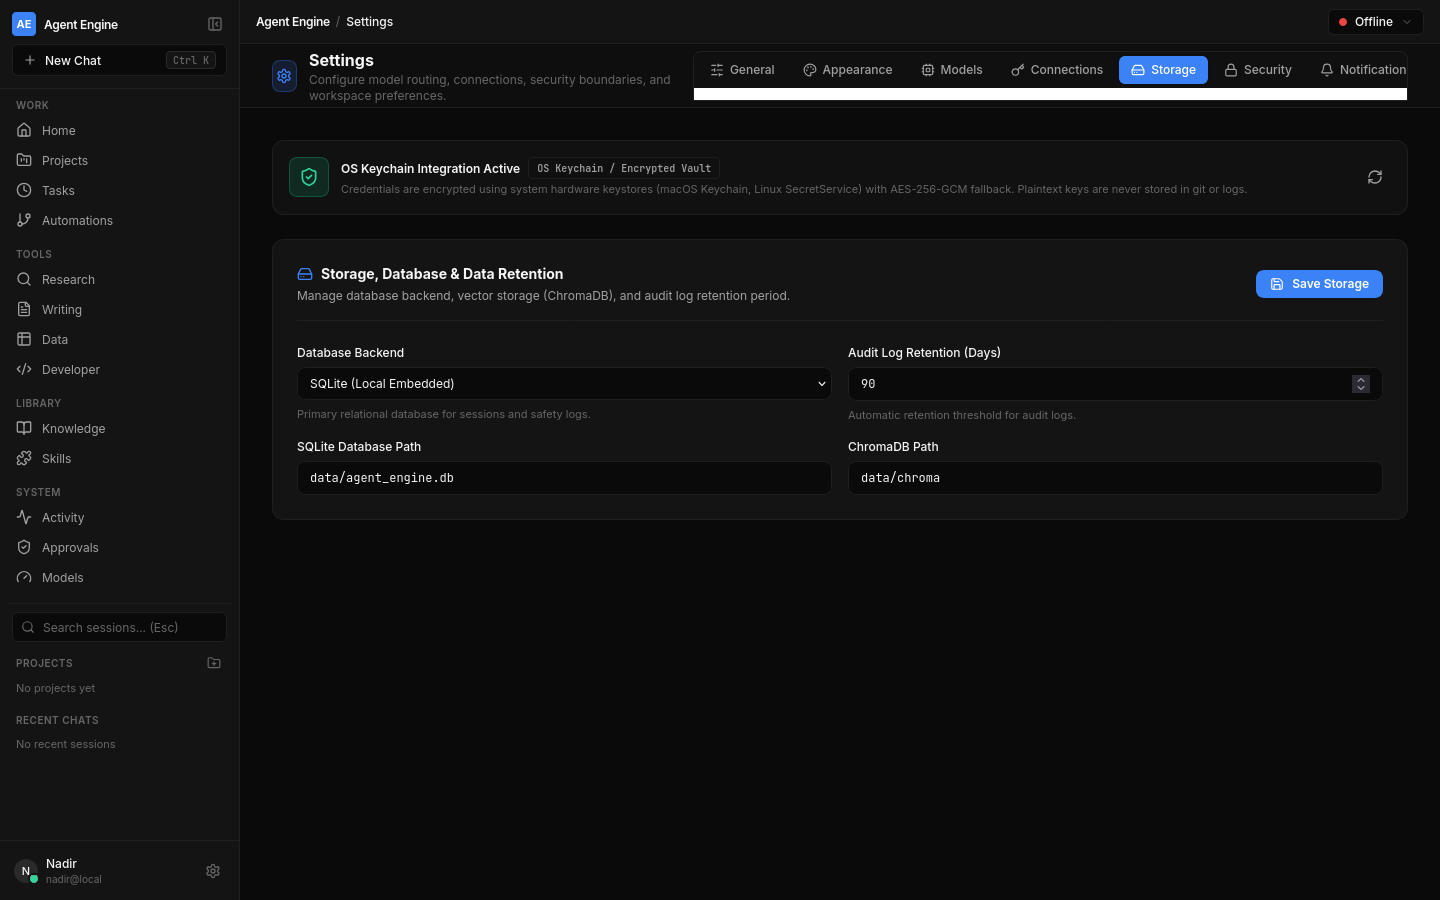
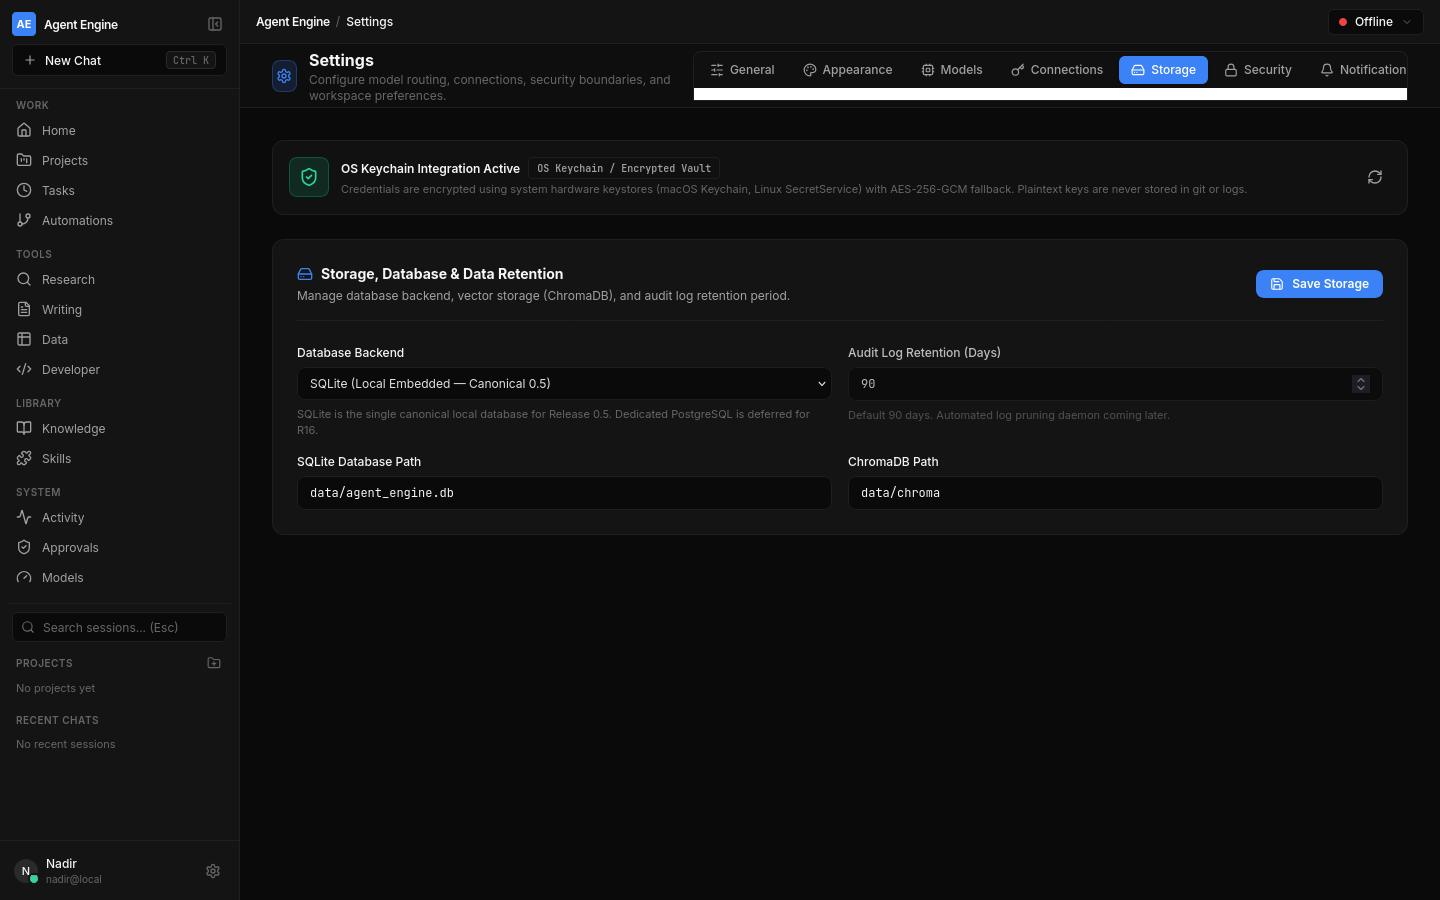
feat(gui): freeze founder-testable R1-R3 dark desktop surface

diff --git a/apps/desktop/src/renderer/screens/Settings.tsx b/apps/desktop/src/renderer/screens/Settings.tsx
@@ -790,10 +790,10 @@ export const Settings: React.FC<SettingsProps> = () => {
                   <div className="p-3 rounded-lg bg-bg-base border border-border-subtle flex items-center justify-between">
                     <div>
                       <div className="font-semibold text-text-primary">Founder Release Channel</div>
-                      <div className="text-[11px] text-text-tertiary">Version 0.5 Nadir Edition (Local IPC)</div>
+                      <div className="text-[11px] text-text-tertiary">Version 0.5 Nadir Edition (Local IPC) · Auto-updater coming later (manual git builds in 0.5).</div>
                     </div>
-                    <span className="px-2 py-0.5 rounded text-[10px] font-mono bg-accent/15 text-accent border border-accent/30 font-semibold">
-                      Up to date
+                    <span className="px-2 py-0.5 rounded text-[10px] font-mono bg-bg-surface text-text-tertiary border border-border-subtle font-medium">
+                      Manual / Verified
                     </span>
                   </div>
                 </div>
@@ -1955,149 +1955,32 @@ export const Settings: React.FC<SettingsProps> = () => {
                 <div>
                   <h2 className="text-sm font-bold text-text-primary flex items-center gap-2">
                     <Bell className="w-4 h-4 text-accent" />
-                    Notification & Dispatch Channels
+                    Notifications
                   </h2>
                   <p className="text-xs text-text-secondary mt-1">
-                    Configure dispatch channels for alerts, async tasks, and safety approval triggers.
+                    System notification dispatch and external alert integrations.
                   </p>
                 </div>
-                <button
-                  onClick={handleSaveAppSettings}
-                  disabled={savingSettings || !appSettings}
-                  className="px-3.5 py-1.5 rounded-lg bg-accent text-white text-xs font-semibold hover:bg-accent-hover transition-colors flex items-center gap-2 disabled:opacity-50"
-                >
-                  {savingSettings ? <Loader2 className="w-3.5 h-3.5 animate-spin" /> : <Save className="w-3.5 h-3.5" />}
-                  Save Channels
-                </button>
+                <span className="px-2.5 py-1 rounded-md text-[11px] font-mono bg-bg-surface border border-border-subtle text-text-tertiary">
+                  Deferred for 0.5
+                </span>
               </div>
 
-              {appSettings && (
-                <div className="space-y-4 text-xs">
-                  <div className="grid grid-cols-1 md:grid-cols-2 gap-4">
-                    <label className="flex items-center gap-3 p-3.5 rounded-lg bg-bg-surface border border-border-subtle cursor-pointer hover:border-accent/40 transition-colors">
-                      <input
-                        type="checkbox"
-                        checked={appSettings.channels.slack_enabled}
-                        onChange={(e) =>
-                          setAppSettings({
-                            ...appSettings,
-                            channels: { ...appSettings.channels, slack_enabled: e.target.checked },
-                          })
-                        }
-                        className="rounded accent-accent w-4 h-4"
-                      />
-                      <div>
-                        <div className="font-semibold text-text-primary">Slack Integration</div>
-                        <div className="text-[11px] text-text-tertiary">Post summaries and approval requests to Slack.</div>
-                      </div>
-                    </label>
-
-                    <label className="flex items-center gap-3 p-3.5 rounded-lg bg-bg-surface border border-border-subtle cursor-pointer hover:border-accent/40 transition-colors">
-                      <input
-                        type="checkbox"
-                        checked={appSettings.channels.discord_enabled}
-                        onChange={(e) =>
-                          setAppSettings({
-                            ...appSettings,
-                            channels: { ...appSettings.channels, discord_enabled: e.target.checked },
-                          })
-                        }
-                        className="rounded accent-accent w-4 h-4"
-                      />
-                      <div>
-                        <div className="font-semibold text-text-primary">Discord Integration</div>
-                        <div className="text-[11px] text-text-tertiary">Dispatch notifications to Discord webhook channels.</div>
-                      </div>
-                    </label>
-
-                    <label className="flex items-center gap-3 p-3.5 rounded-lg bg-bg-surface border border-border-subtle cursor-pointer hover:border-accent/40 transition-colors">
-                      <input
-                        type="checkbox"
-                        checked={appSettings.channels.telegram_enabled}
-                        onChange={(e) =>
-                          setAppSettings({
-                            ...appSettings,
-                            channels: { ...appSettings.channels, telegram_enabled: e.target.checked },
-                          })
-                        }
-                        className="rounded accent-accent w-4 h-4"
-                      />
-                      <div>
-                        <div className="font-semibold text-text-primary">Telegram Integration</div>
-                        <div className="text-[11px] text-text-tertiary">Send notifications via Telegram bot.</div>
-                      </div>
-                    </label>
-
-                    <label className="flex items-center gap-3 p-3.5 rounded-lg bg-bg-surface border border-border-subtle cursor-pointer hover:border-accent/40 transition-colors">
-                      <input
-                        type="checkbox"
-                        checked={appSettings.channels.whatsapp_enabled}
-                        onChange={(e) =>
-                          setAppSettings({
-                            ...appSettings,
-                            channels: { ...appSettings.channels, whatsapp_enabled: e.target.checked },
-                          })
-                        }
-                        className="rounded accent-accent w-4 h-4"
-                      />
-                      <div>
-                        <div className="font-semibold text-text-primary">WhatsApp Integration</div>
-                        <div className="text-[11px] text-text-tertiary">Forward high-priority alerts to WhatsApp Business API.</div>
-                      </div>
-                    </label>
-                  </div>
-
-                  <div className="grid grid-cols-1 md:grid-cols-2 gap-4">
-                    <div className="space-y-1.5">
-                      <label className="text-text-primary font-medium">Slack Webhook URL</label>
-                      <input
-                        type="text"
-                        value={appSettings.channels.slack_webhook_url || ''}
-                        onChange={(e) =>
-                          setAppSettings({
-                            ...appSettings,
-                            channels: { ...appSettings.channels, slack_webhook_url: e.target.value || null },
-                          })
-                        }
-                        placeholder="https://hooks.slack.com/services/..."
-                        className="w-full px-3 py-2 rounded-lg bg-bg-base border border-border-subtle text-text-primary font-mono text-xs focus:outline-none focus:border-accent"
-                      />
-                    </div>
-
-                    <div className="space-y-1.5">
-                      <label className="text-text-primary font-medium">Discord Webhook URL</label>
-                      <input
-                        type="text"
-                        value={appSettings.channels.discord_webhook_url || ''}
-                        onChange={(e) =>
-                          setAppSettings({
-                            ...appSettings,
-                            channels: { ...appSettings.channels, discord_webhook_url: e.target.value || null },
-                          })
-                        }
-                        placeholder="https://discord.com/api/webhooks/..."
-                        className="w-full px-3 py-2 rounded-lg bg-bg-base border border-border-subtle text-text-primary font-mono text-xs focus:outline-none focus:border-accent"
-                      />
-                    </div>
-
-                    <div className="space-y-1.5 md:col-span-2">
-                      <label className="text-text-primary font-medium">Telegram Bot Token</label>
-                      <input
-                        type="text"
-                        value={appSettings.channels.telegram_bot_token || ''}
-                        onChange={(e) =>
-                          setAppSettings({
-                            ...appSettings,
-                            channels: { ...appSettings.channels, telegram_bot_token: e.target.value || null },
-                          })
-                        }
-                        placeholder="123456789:ABCdefGHIjklMNOpqrsTUVwxyz"
-                        className="w-full px-3 py-2 rounded-lg bg-bg-base border border-border-subtle text-text-primary font-mono text-xs focus:outline-none focus:border-accent"
-                      />
-                    </div>
-                  </div>
+              {/* Truthful Empty State */}
+              <div className="p-10 rounded-xl bg-bg-surface border border-border-subtle flex flex-col items-center justify-center text-center space-y-3">
+                <div className="w-12 h-12 rounded-full bg-accent/10 border border-accent/20 flex items-center justify-center text-accent">
+                  <Bell className="w-5 h-5 text-text-tertiary" />
                 </div>
-              )}
+                <div className="max-w-md space-y-1">
+                  <h3 className="text-sm font-bold text-text-primary">Notification integrations are not available in this release.</h3>
+                  <p className="text-xs text-text-secondary leading-relaxed">
+                    External dispatch channels (Slack, Discord, Telegram, WhatsApp) are deferred for post-0.5 roadmap milestones. No background notifications or shadow webhooks are dispatched by the local daemon.
+                  </p>
+                </div>
+                <span className="px-3 py-1 rounded-full text-[11px] font-medium bg-bg-base border border-border-subtle text-text-tertiary">
+                  Coming later
+                </span>
+              </div>
             </div>
           )}
 
@@ -2129,41 +2012,25 @@ export const Settings: React.FC<SettingsProps> = () => {
                     <div className="space-y-1.5">
                       <label className="text-text-primary font-medium">Database Backend</label>
                       <select
-                        value={appSettings.storage.database_backend}
-                        onChange={(e) =>
-                          setAppSettings({
-                            ...appSettings,
-                            storage: {
-                              ...appSettings.storage,
-                              database_backend: e.target.value as 'sqlite' | 'postgres',
-                            },
-                          })
-                        }
-                        className="w-full px-3 py-2 rounded-lg bg-bg-base border border-border-subtle text-text-primary text-xs focus:outline-none focus:border-accent"
+                        value="sqlite"
+                        disabled
+                        className="w-full px-3 py-2 rounded-lg bg-bg-base border border-border-subtle text-text-primary text-xs focus:outline-none focus:border-accent opacity-90 cursor-default"
                       >
-                        <option value="sqlite">SQLite (Local Embedded)</option>
-                        <option value="postgres">PostgreSQL (Enterprise / Dedicated)</option>
+                        <option value="sqlite">SQLite (Local Embedded — Canonical 0.5)</option>
+                        <option value="postgres" disabled>PostgreSQL (Coming later — Cloud/Enterprise in R16)</option>
                       </select>
-                      <p className="text-[11px] text-text-tertiary">Primary relational database for sessions and safety logs.</p>
+                      <p className="text-[11px] text-text-tertiary">SQLite is the single canonical local database for Release 0.5. Dedicated PostgreSQL is deferred for R16.</p>
                     </div>
 
-                    <div className="space-y-1.5">
+                    <div className="space-y-1.5 opacity-75">
                       <label className="text-text-primary font-medium">Audit Log Retention (Days)</label>
                       <input
                         type="number"
-                        value={appSettings.storage.retention_days}
-                        onChange={(e) =>
-                          setAppSettings({
-                            ...appSettings,
-                            storage: {
-                              ...appSettings.storage,
-                              retention_days: parseInt(e.target.value) || 90,
-                            },
-                          })
-                        }
-                        className="w-full px-3 py-2 rounded-lg bg-bg-base border border-border-subtle text-text-primary font-mono text-xs focus:outline-none focus:border-accent"
+                        value={appSettings.storage.retention_days || 90}
+                        disabled
+                        className="w-full px-3 py-2 rounded-lg bg-bg-base border border-border-subtle text-text-secondary font-mono text-xs cursor-not-allowed"
                       />
-                      <p className="text-[11px] text-text-tertiary">Automatic retention threshold for audit logs.</p>
+                      <p className="text-[11px] text-text-tertiary">Default 90 days. Automated log pruning daemon coming later.</p>
                     </div>
                   </div>
 
@@ -2382,7 +2249,7 @@ export const Settings: React.FC<SettingsProps> = () => {
                   <div className="space-y-1.5 opacity-60">
                     <div className="flex items-center justify-between">
                       <label className="text-text-primary font-medium">UI Density</label>
-                      <span className="text-[10px] font-mono text-text-tertiary uppercase">Planned for R4 (Preview)</span>
+                      <span className="text-[10px] font-mono text-text-tertiary uppercase">Coming later</span>
                     </div>
                     <select
                       value="comfortable"
@@ -2400,7 +2267,7 @@ export const Settings: React.FC<SettingsProps> = () => {
                   <div className="space-y-1.5 opacity-60">
                     <div className="flex items-center justify-between">
                       <label className="text-text-primary font-medium">Font Size</label>
-                      <span className="text-[10px] font-mono text-text-tertiary uppercase">Planned for R4 (Preview)</span>
+                      <span className="text-[10px] font-mono text-text-tertiary uppercase">Coming later</span>
                     </div>
                     <select
                       value="base"
@@ -2419,7 +2286,7 @@ export const Settings: React.FC<SettingsProps> = () => {
                   <div className="space-y-1.5 opacity-60">
                     <div className="flex items-center justify-between">
                       <label className="text-text-primary font-medium">Code Font Family</label>
-                      <span className="text-[10px] font-mono text-text-tertiary uppercase">Planned for R4 (Preview)</span>
+                      <span className="text-[10px] font-mono text-text-tertiary uppercase">Coming later</span>
                     </div>
                     <input
                       type="text"
